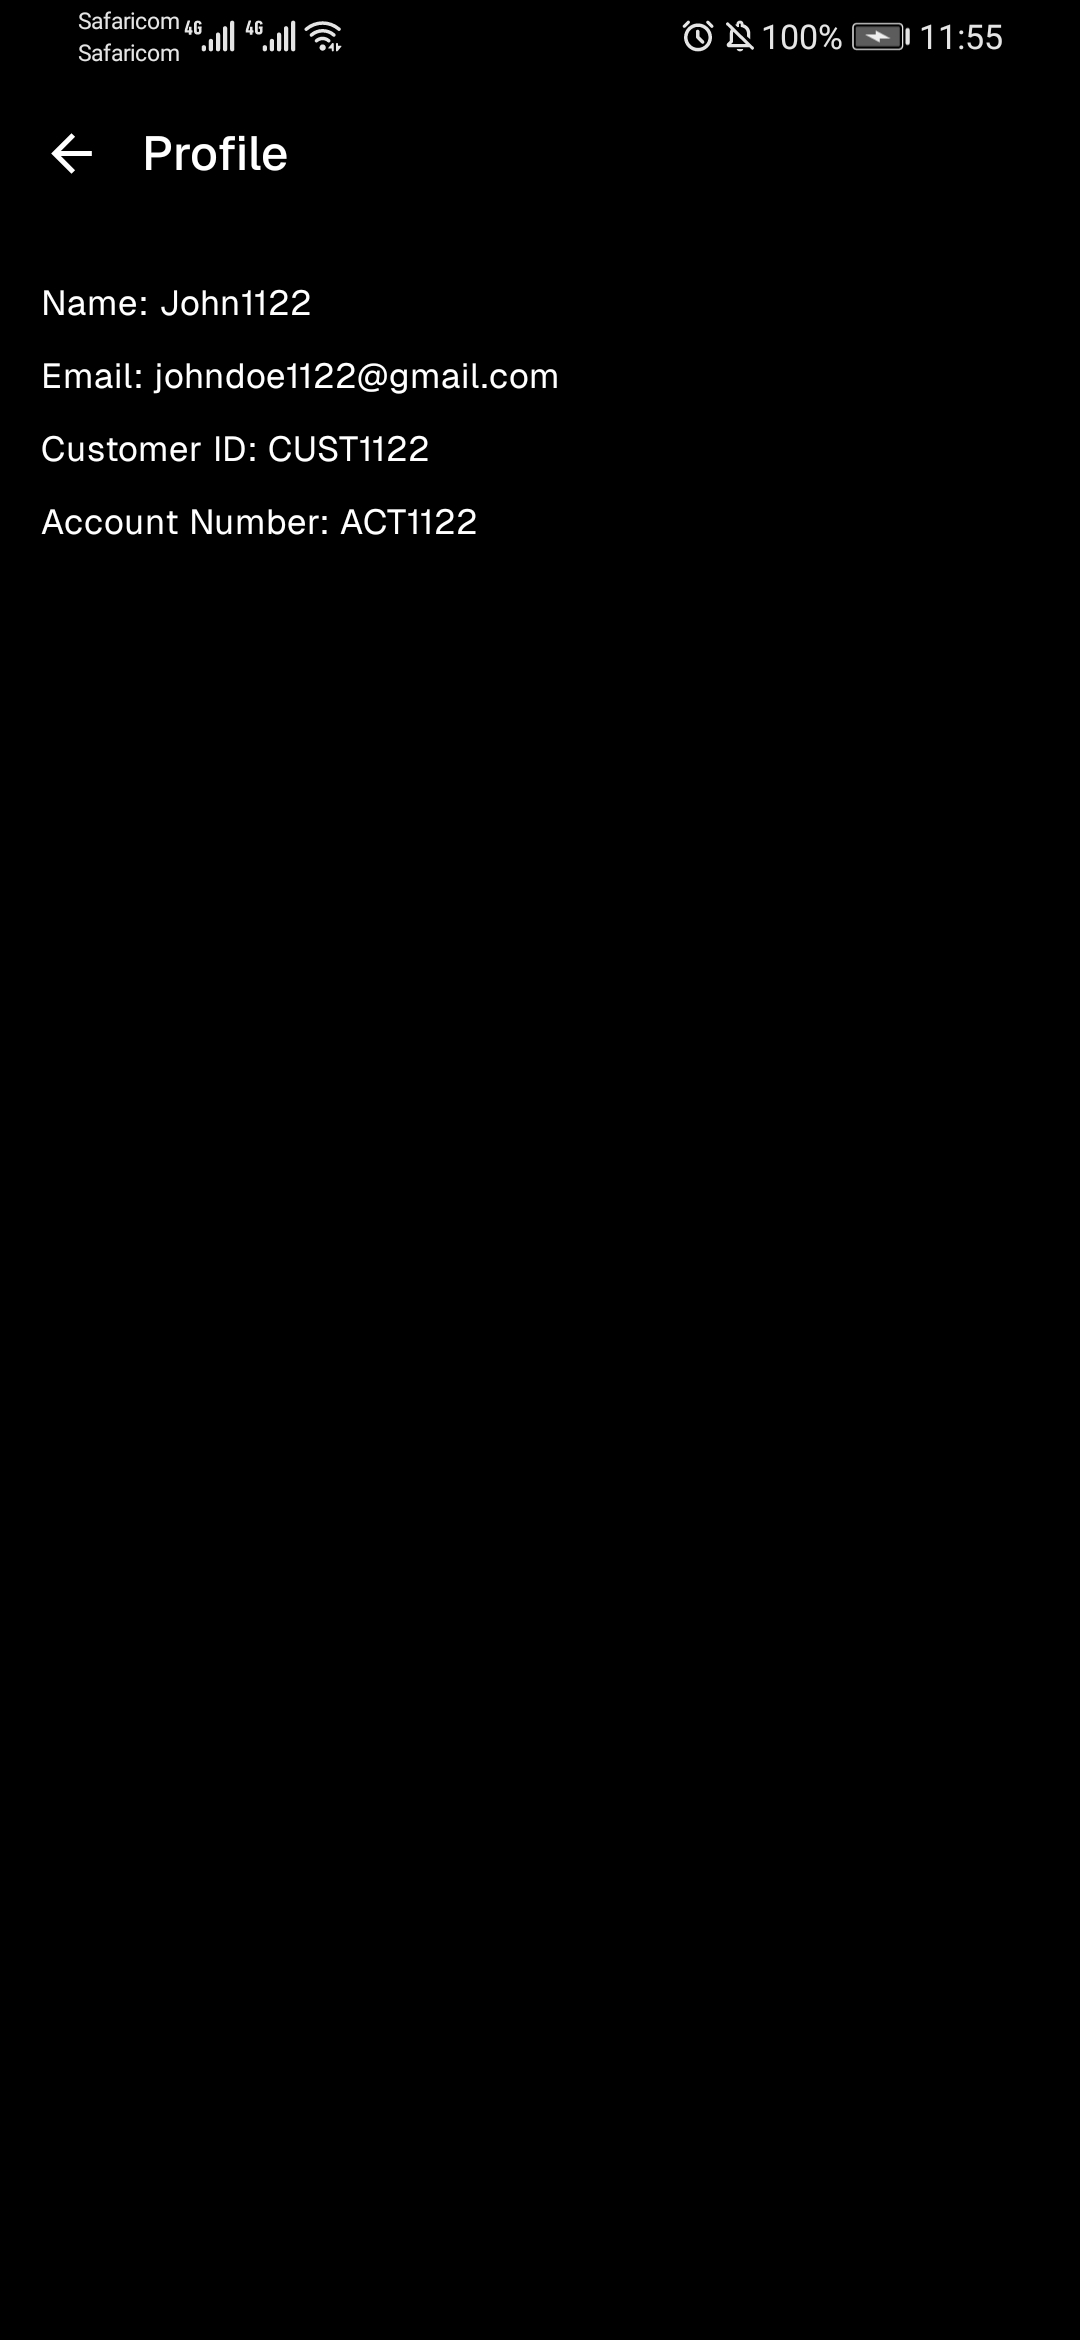
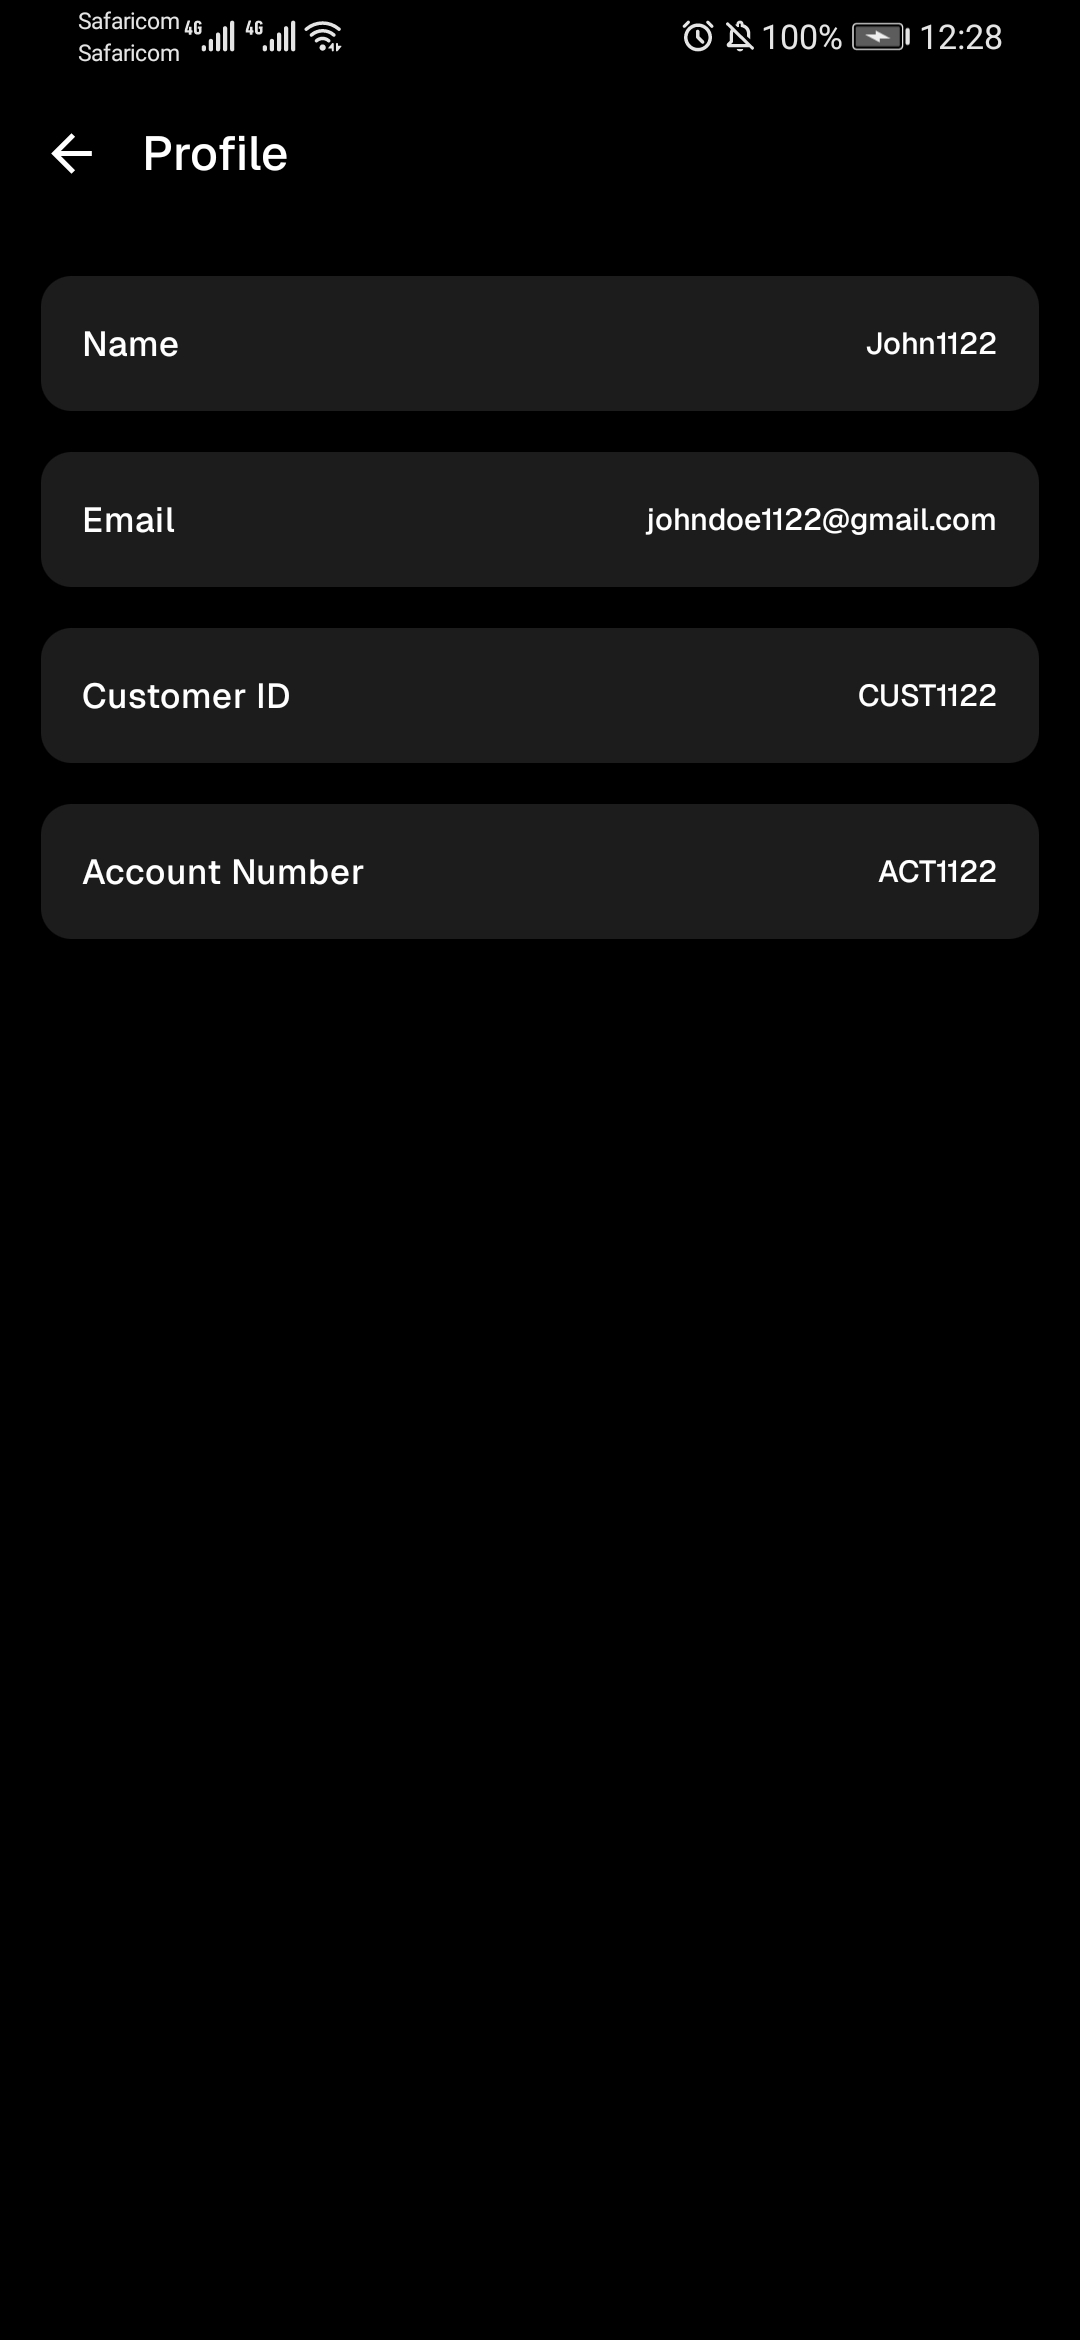
update profile screen ui

Changed region(s): [[0.0306, 0.0936, 0.9778, 0.4056], [0.8861, 0.0, 0.9167, 0.0312]]

diff --git a/app/src/main/java/com/app/compulynx/features/profile/components/InformationCard.kt b/app/src/main/java/com/app/compulynx/features/profile/components/InformationCard.kt
@@ -1,0 +1,45 @@
+package com.app.compulynx.features.profile.components
+
+import androidx.compose.foundation.layout.Arrangement
+import androidx.compose.foundation.layout.Row
+import androidx.compose.foundation.layout.fillMaxWidth
+import androidx.compose.foundation.layout.padding
+import androidx.compose.material3.MaterialTheme
+import androidx.compose.material3.Surface
+import androidx.compose.material3.Text
+import androidx.compose.runtime.Composable
+import androidx.compose.ui.Alignment
+import androidx.compose.ui.Modifier
+import androidx.compose.ui.text.font.FontWeight
+import androidx.compose.ui.unit.dp
+
+@Composable
+fun InformationCard(
+    modifier: Modifier = Modifier,
+    label: String,
+    value: String
+) {
+    Surface(
+        modifier = modifier
+            .fillMaxWidth()
+            .padding(bottom = 16.dp),
+        shape = MaterialTheme.shapes.medium,
+        color = MaterialTheme.colorScheme.surface
+    ) {
+        Row(
+            modifier = Modifier
+                .fillMaxWidth()
+                .padding(16.dp),
+            verticalAlignment = Alignment.CenterVertically,
+            horizontalArrangement = Arrangement.SpaceBetween
+        ) {
+            Text(label, fontWeight = FontWeight.Medium)
+            Text(
+                value,
+                style = MaterialTheme.typography.bodyMedium.copy(
+                    fontWeight = FontWeight.Medium
+                )
+            )
+        }
+    }
+}

diff --git a/app/src/main/java/com/app/compulynx/features/profile/ProfileScreen.kt b/app/src/main/java/com/app/compulynx/features/profile/ProfileScreen.kt
@@ -19,6 +19,7 @@ import androidx.compose.ui.text.font.FontWeight
 import androidx.compose.ui.unit.dp
 import androidx.hilt.lifecycle.viewmodel.compose.hiltViewModel
 import androidx.lifecycle.compose.collectAsStateWithLifecycle
+import com.app.compulynx.features.profile.components.InformationCard
 
 @Composable
 fun ProfileScreen(
@@ -73,12 +74,23 @@ fun ProfileScreenContent(
             modifier = Modifier
                 .padding(paddingValues)
                 .padding(16.dp),
-            verticalArrangement = Arrangement.spacedBy(8.dp)
         ) {
-            Text("Name: ${profileScreenState.name}")
-            Text("Email: ${profileScreenState.email}")
-            Text("Customer ID: ${profileScreenState.customerId}")
-            Text("Account Number: ${profileScreenState.accountNumber}")
+            InformationCard(
+                label = "Name",
+                value = profileScreenState.name
+            )
+            InformationCard(
+                label = "Email",
+                value = profileScreenState.email
+            )
+            InformationCard(
+                label = "Customer ID",
+                value = profileScreenState.customerId
+            )
+            InformationCard(
+                label = "Account Number",
+                value = profileScreenState.accountNumber
+            )
         }
     }
 }
